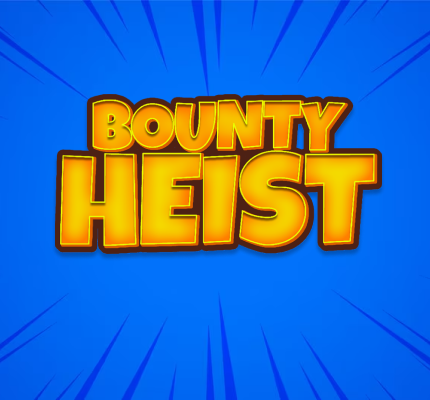
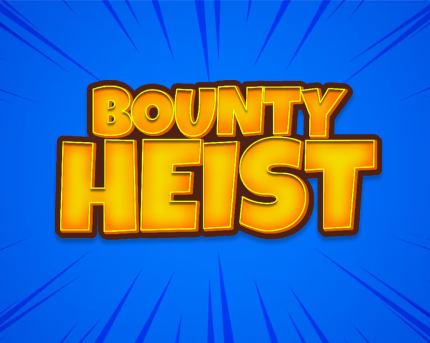
Home Pgae update

diff --git a/src/pages/Home/home.css b/src/pages/Home/home.css
@@ -3,5 +3,150 @@
     .vhead
     {
         width: 100%;
+        height: 330px;
+        background-image: url('../../img/bounty.png');
+        background-repeat: no-repeat;
+        background-size: cover;
+        background-position: center;
+        position: relative;
     }
+    .buttonme
+    {
+        display: inline-flex;
+padding: 10px 20px;
+justify-content: center;
+align-items: center;
+gap: 10px;
+border-radius: 5px;
+background: var(--Danube-50, #F1F7FD);
+border: none;
+color: var(--Danube-950, #1D2C4E);
+font-family: Inter;
+font-size: 14px;
+font-style: normal;
+font-weight: 400;
+line-height: normal;
+/* margin-left:20px ; */
+        /* margin-left: auto !important;  */
+    }
+    .veednav
+    {
+        display: flex ;
+width: 98%;
+justify-content: flex-end;
+align-items: center;
+padding-top: 23px;
+    }
+    .veednav1
+    {
+        padding-right: 10px;
+    }
+    .veednav h3
+    {
+        color: var(--Danube-50, #F1F7FD);
+font-family: Onest;
+font-size: 16px;
+font-style: normal;
+font-weight: 700;
+line-height: normal;
+margin: 0;
+    }
+    .veednav p
+    {
+        color: var(--Danube-50, #F1F7FD);
+font-family: Onest;
+font-size: 12px;
+font-style: italic;
+font-weight: 400;
+line-height: normal;
+margin: 0;
+text-align: right;
+    }
+    .veedcoins
+    {
+        position: absolute;
+        bottom: 35px;
+        display: flex;
+        justify-content: center;
+        width: 100%;
+        align-items: center;
+        gap: 10px;
+    }
+    .veedcoins img
+    {
+        width: 50px;
+        height: 50px;
+    }
+    .veedcoins p
+    {
+        color: var(--Danube-50, #F1F7FD);
+font-family: Onest;
+font-size: 48px;
+font-style: normal;
+font-weight: 700;
+line-height: normal;
+margin: 0;
+    }
+    .veedmenu
+    
+    {
+        position: absolute;
+        width: 100%;
+        display: flex;
+        justify-content: center;
+    }
+    .veedtasks
+    {
+        position: relative;
+    }
+    .veedmenu1
+    {
+        border-radius: 30px;
+border: 1px solid rgba(77, 33, 20, 0.10);
+background: #FFF;
+box-shadow: 0px 4px 4px 0px rgba(0, 0, 0, 0.15);
+gap: 10px;
+display: flex;
+/* margin-top: 30px; */
+position: absolute;
+top: -10px;
+padding-right: 10px;
+/* padding: 5px; */
+    }
+    .veedlink
+    {
+        border-radius: 30px;
+border: 1px solid rgba(77, 33, 20, 0.52);
+background: linear-gradient(148deg, #FFE63D -23.58%, #FFB245 130.63%);
+box-shadow: 0px 4px 4px 0px rgba(0, 0, 0, 0.05);
+color: var(--Danube-50, #F1F7FD);
+font-family: Onest;
+font-size: 14px;
+font-style: normal;
+font-weight: 500;
+line-height: normal;
+border: none;
+display: flex;
+width: 95px;
+height: 32px;
+padding: 7px 20px;
+justify-content: center;
+align-items: center;
+gap: 10px;
+flex-shrink: 0;
+
+    }
+    .veedlinkmon
+    {
+        color: var(--Danube-400, #70B0EA);
+font-family: Onest;
+font-size: 14px;
+font-style: normal;
+font-weight: 500;
+line-height: normal;
+border: none;
+background: #FFF;
+
+    }
+    
 }

diff --git a/src/pages/Home/Home.jsx b/src/pages/Home/Home.jsx
@@ -1,13 +1,39 @@
 import React from 'react';
-import Bounty from "../../img/bounty.png";
+// import Bounty from "../../img/bounty.png";
+import { Button, Flex } from 'antd';
 import './home.css';
+import Coins from "../../img/coins.png";
+import { Link } from 'react-router-dom';
 
 function Home() {
   return (
     <div className='veed'>
         <div className="vhead">
-            <img src={Bounty} alt="Bounty" />
+            <div className="veednav">
+            {/* <button className='buttonme'>Profile</button> */}
+            <div className="veednav1">
+            <h3>Alex Emmatty</h3>
+            <p>Refferral ID</p>
+            </div>
+            </div>
+            <div className="veedcoins">
+                <img src={Coins} alt="Coins" />
+                <p>100</p>
+            </div>
+            
         </div>
+        <div className="veedtask">
+        <div className="veedmenu">
+                <div className="veedmenu1">
+                <button className='veedlink' value="redeem" >Redeem</button>
+                <button className='veedlinkmon' value="send" >Send</button>
+                <button className='veedlinkmon' value="recieve" >Recieve</button>
+                <button className='veedlinkmon' value="tasks" >Tasks</button>
+            </div>
+            </div>
+            </div>
+        
+        
     </div>
   )
 }

diff --git a/src/App.jsx b/src/App.jsx
@@ -5,6 +5,7 @@ import './App.css';
 import {BrowserRouter as Router , Routes , Route, BrowserRouter} from 'react-router-dom';
 import Login from './pages/login/Login';
 import Register from './pages/register/Register';
+import Home from './pages/Home/Home';
 
 function App() {
   const [count, setCount] = useState(0)
@@ -13,7 +14,7 @@ function App() {
     <>
       <BrowserRouter>
         <Routes>
-          <Route path="/" element={<div>Home</div>} />
+          <Route path="/" element={<Home/>} />
           <Route path="/register" element={<Register/>} />
           <Route path='/login' element = {<Login/>} />
         </Routes>

diff --git a/src/index.css b/src/index.css
@@ -1,3 +1,4 @@
 body{
   background-color: #f1f7fd;
+  margin: 0;
 }
